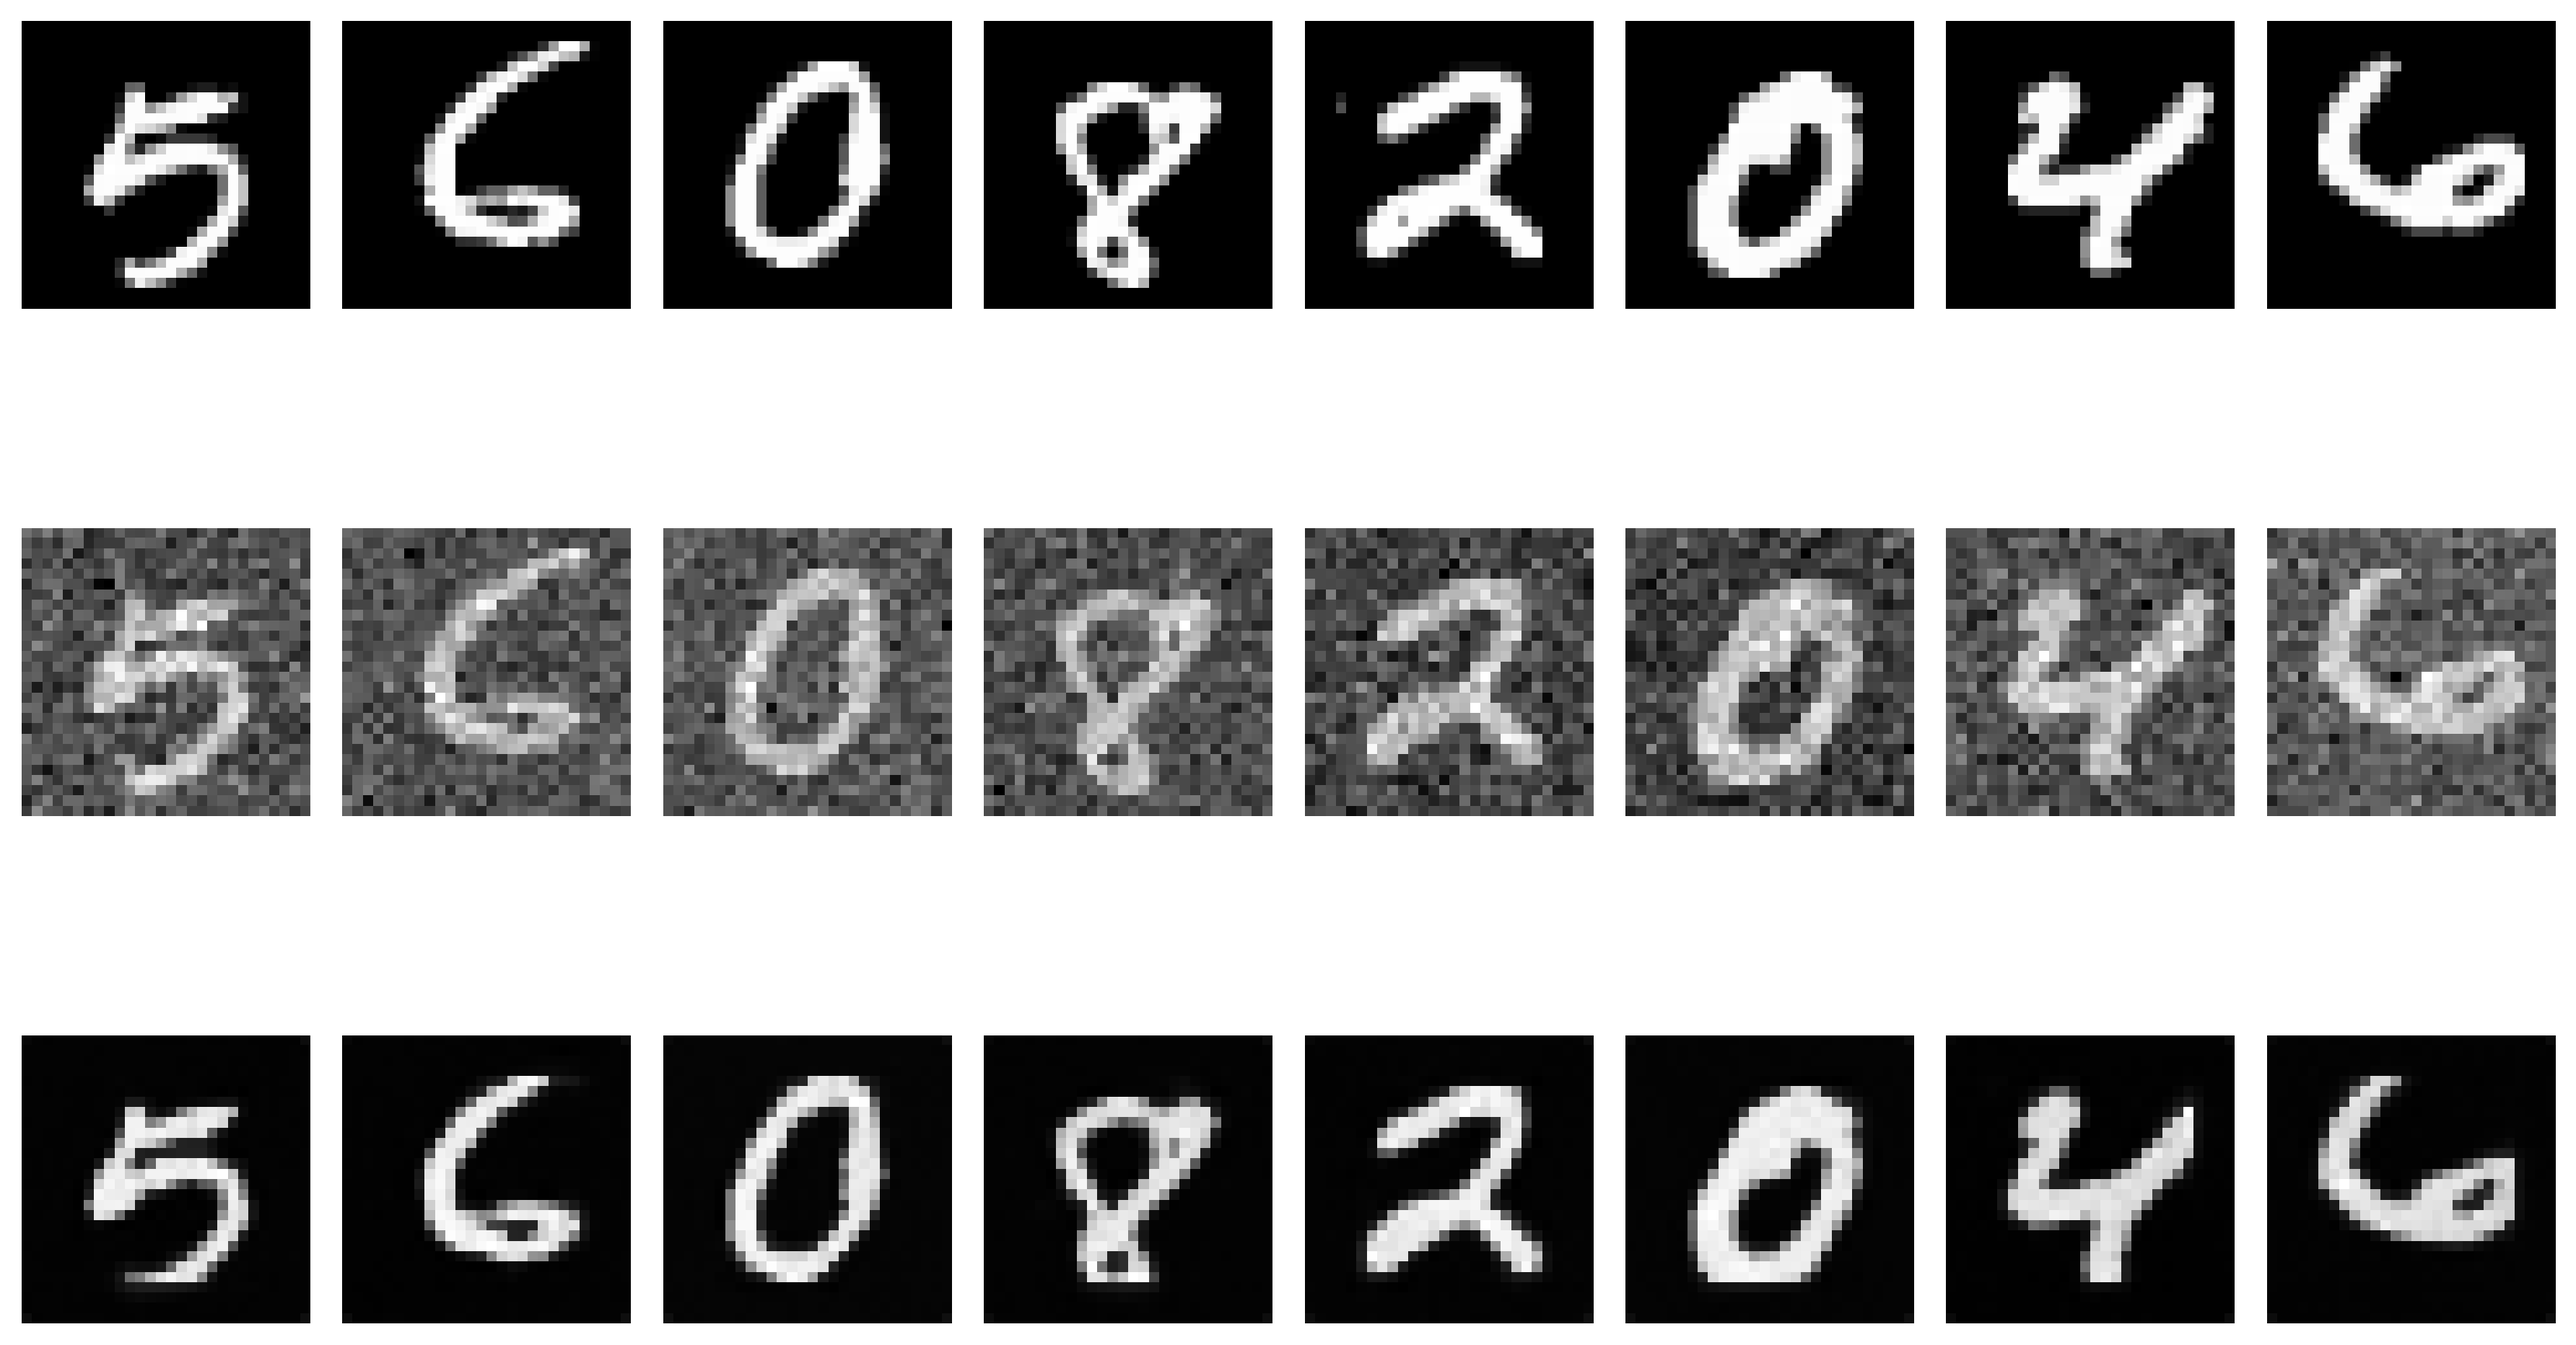
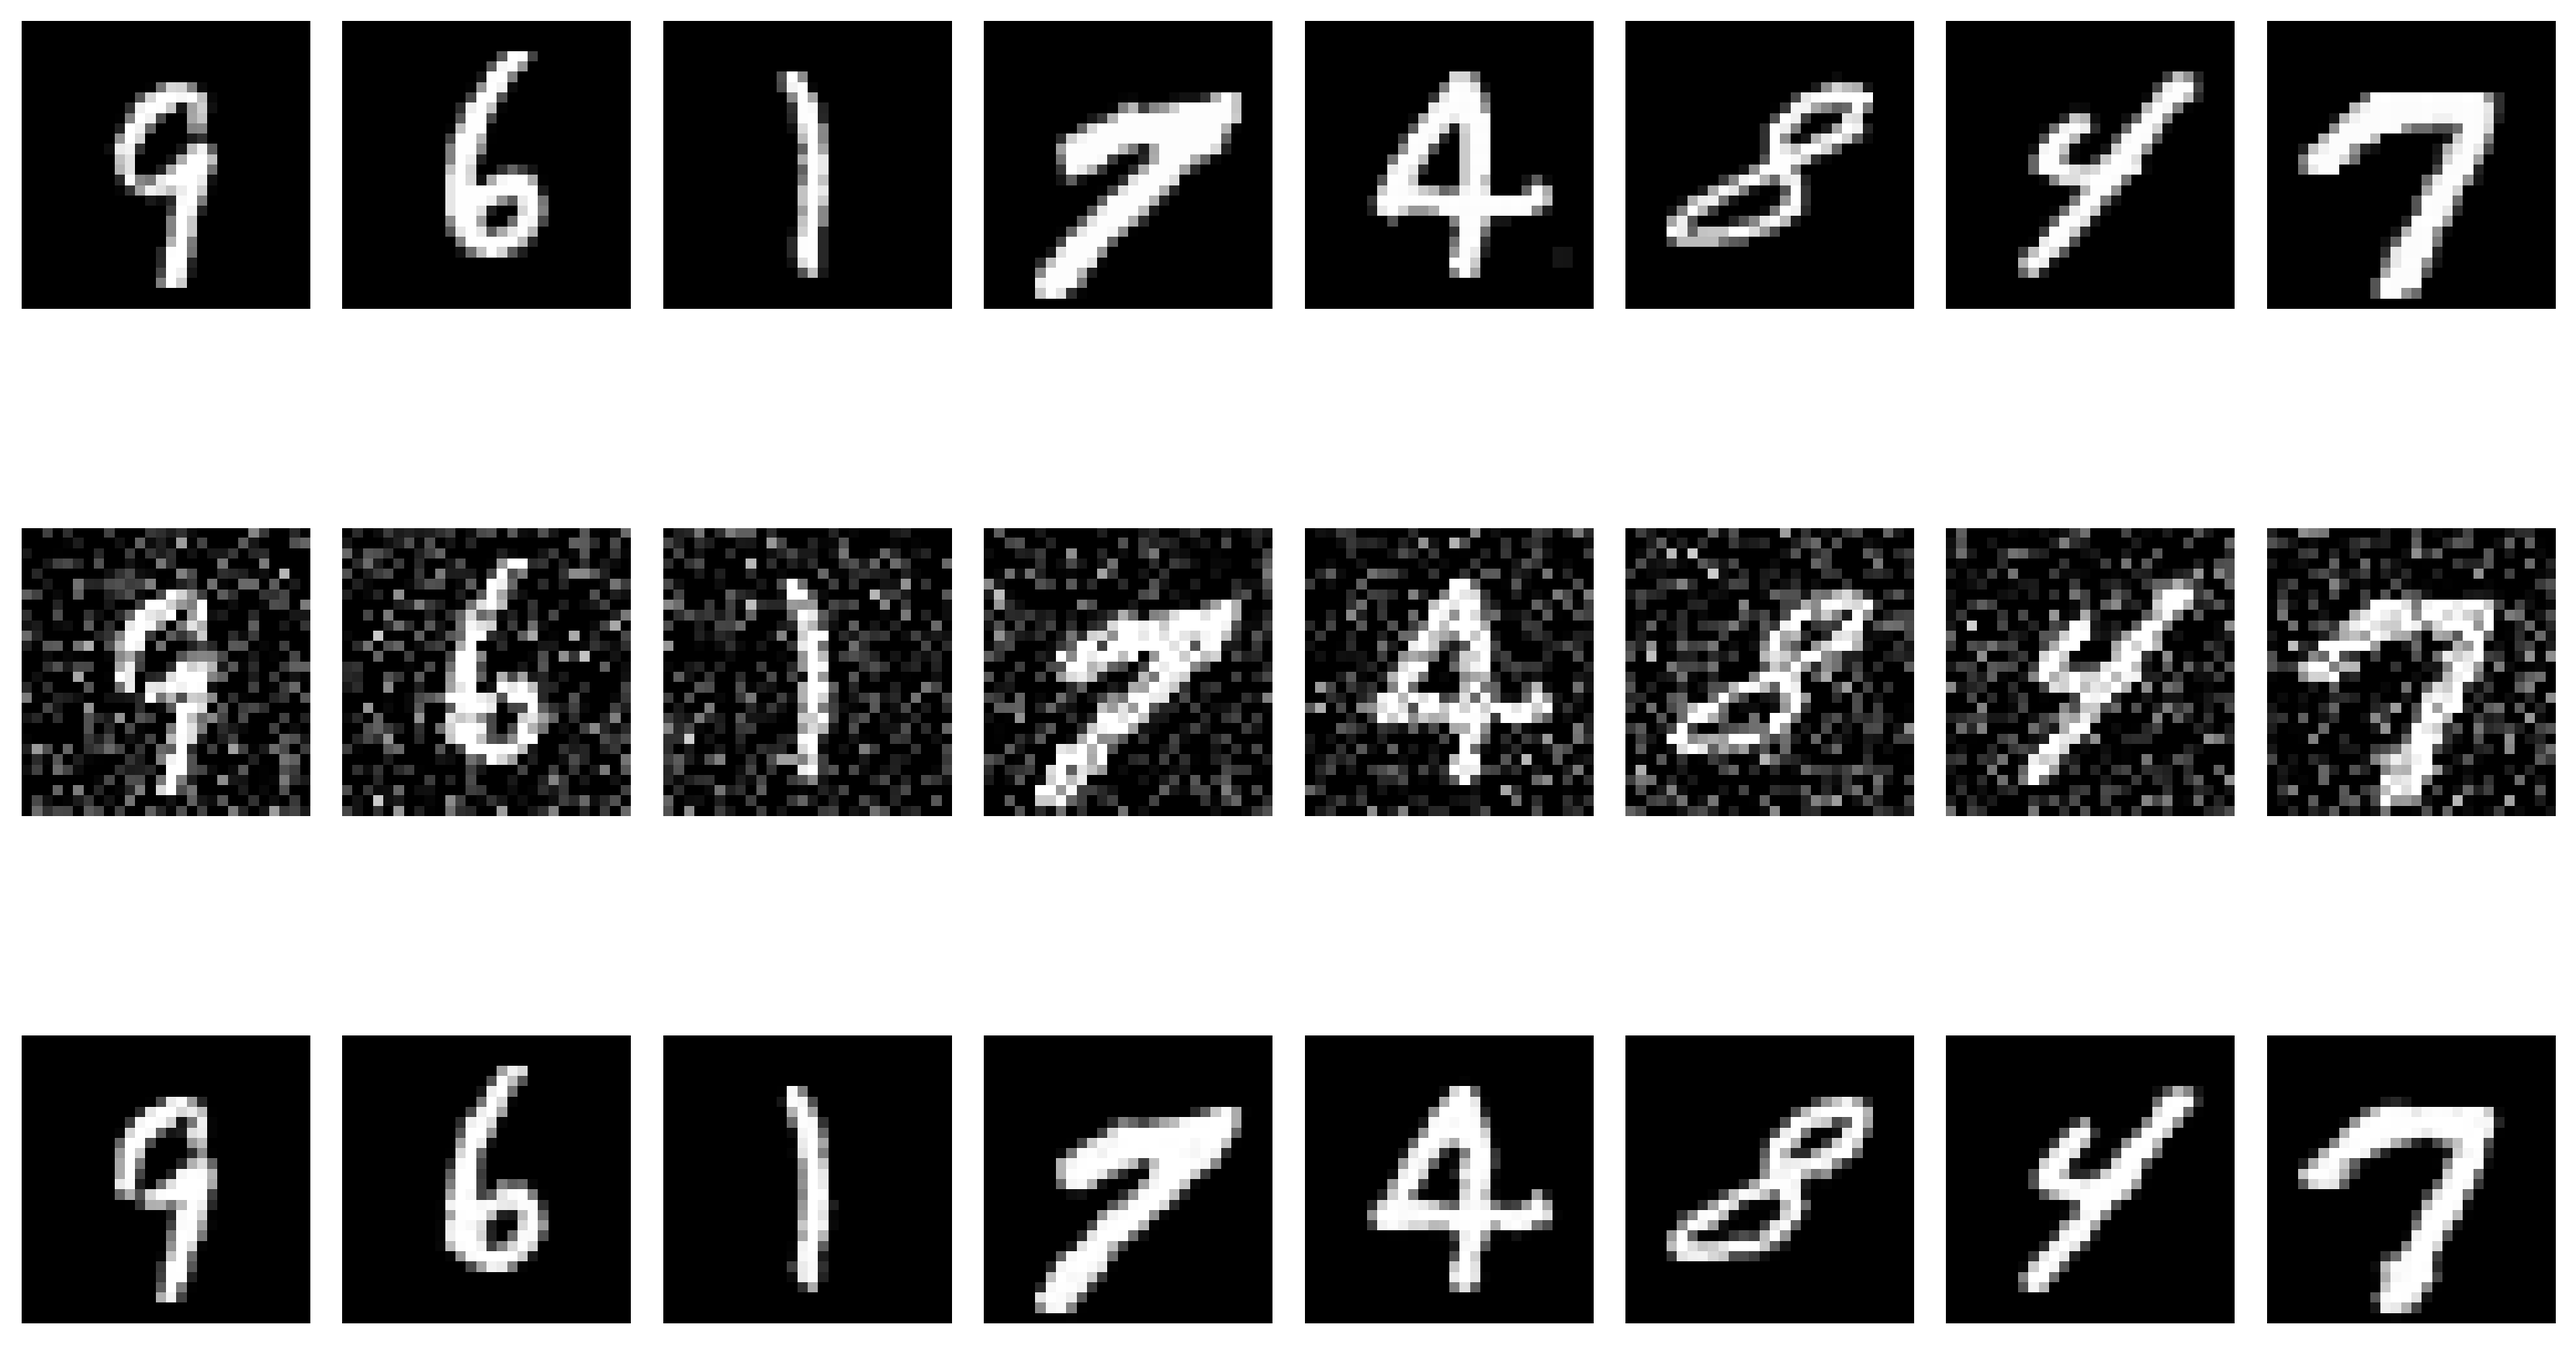
changed network architectures

diff --git a/cv/gans/denoising_gan/generator.py b/cv/gans/denoising_gan/generator.py
@@ -5,42 +5,29 @@ class Generator(nn.Module):
     def __init__(self):
         super(Generator, self).__init__()
         self.encoder1 = nn.Sequential(
-            nn.Conv2d(1, 32, kernel_size=5),
-            nn.LeakyReLU(),
+            nn.Conv2d(1, 32, 3, stride=2, padding=1),
+            nn.ReLU()
         )
 
         self.encoder2 = nn.Sequential(
-            nn.Conv2d(32, 64, kernel_size=5),
-            nn.LeakyReLU(),
-        )
-
-        self.encoder3 = nn.Sequential(
-            nn.Conv2d(64, 128, kernel_size=5),
-            nn.LeakyReLU(),
+            nn.Conv2d(32, 64, 3, stride=2, padding=1),
+            nn.ReLU()
         )
 
         self.decoder1 = nn.Sequential(
-            nn.ConvTranspose2d(128, 64, kernel_size=5),
-            nn.LeakyReLU(),
+            nn.ConvTranspose2d(64, 32, 3, stride=2, padding=1, output_padding=1), 
+            nn.ReLU()
         )
 
         self.decoder2 = nn.Sequential(
-            nn.ConvTranspose2d(128, 32, kernel_size=5),
-            nn.LeakyReLU(),
-        )
-
-        self.decoder3 = nn.Sequential(
-            nn.ConvTranspose2d(64, 1, kernel_size=5),
-            nn.LeakyReLU(),
+            nn.ConvTranspose2d(64, 1, 3, stride = 2, padding=1, output_padding=1),
+            nn.Tanh()
         )
 
     def forward(self, x):
         e1 = self.encoder1(x)
         e2 = self.encoder2(e1)
-        e3 = self.encoder3(e2)
-        d1 = self.decoder1(e3)
-        d1 = torch.concat([e2, d1], dim=1)
+        d1 = self.decoder1(e2)
+        d1 = torch.concat([d1, e1], dim=1)
         d2 = self.decoder2(d1)
-        d2 = torch.concat([e1, d2], dim=1)
-        d3 = self.decoder3(d2)
-        return d3
+        return d2

diff --git a/cv/gans/denoising_gan/train.py b/cv/gans/denoising_gan/train.py
@@ -10,23 +10,23 @@ from generator import Generator
 from discriminator import Discriminator
 
 # define parameters
-LR = 0.0001
+LR = 0.0002
 EPOCHS = 40
-BATCH_SIZE = 128
+BATCH_SIZE = 64
 DEVICE = torch.device("cuda" if torch.cuda.is_available() else "cpu")
 
 # add noise
 def add_gaussian_noise(image_tensor, noise_factor=0.5):
     noise_tensor = torch.randn_like(image_tensor) * noise_factor
     noisy_image = image_tensor + noise_tensor
-    return noisy_image
+    return torch.clamp(noisy_image, -1., 1.)
 
 # load data
 print("Loading data...")
 
 transform = transforms.Compose([
     transforms.ToTensor(),
-    transforms.Normalize((.1307), (.3801))
+    transforms.Normalize((.5), (.5))
 ])
 
 train_dataset = MNIST("../../../data", download=False, transform=transform, train=True)
@@ -52,12 +52,11 @@ print("Training started...")
 for epoch in range(EPOCHS):
     for batch_idx, (clean_images, _) in enumerate(train_loader):
         clean_images = clean_images.to(DEVICE)
-        
         ## train discriminator
         disc_opt.zero_grad()
 
         # prepare data
-        noisy_images = add_gaussian_noise(clean_images)
+        noisy_images = add_gaussian_noise(clean_images).to(DEVICE)
         denoised_images = gen(noisy_images)
 
         # create labels
@@ -72,7 +71,7 @@ for epoch in range(EPOCHS):
         disc_noisy_outputs = disc(denoised_images.detach())
         disc_noisy_loss = gan_loss(disc_noisy_outputs, noisy_labels)
 
-        disc_loss = (disc_clean_loss + disc_noisy_loss)/2.
+        disc_loss = disc_clean_loss + disc_noisy_loss
         disc_loss.backward()
         disc_opt.step()
 

diff --git a/cv/gans/denoising_gan/discriminator.py b/cv/gans/denoising_gan/discriminator.py
@@ -4,18 +4,13 @@ class Discriminator(nn.Module):
     def __init__(self):
         super(Discriminator, self).__init__()
         self.disc = nn.Sequential(
-            nn.Conv2d(1, 32, kernel_size=5),
-            nn.LeakyReLU(),
-            nn.MaxPool2d(2),
-            nn.Conv2d(32, 64, kernel_size=5),
-            nn.LeakyReLU(),
-            nn.MaxPool2d(2),
+            nn.Conv2d(1, 64, 3, stride=2, padding=1),
+            nn.LeakyReLU(0.2),
+            nn.Conv2d(64, 128, 3, stride=2, padding=1),
+            nn.LeakyReLU(0.2),
             nn.Flatten(),
-            nn.Linear(1024, 32),
-            nn.LeakyReLU(),
-            nn.Linear(32, 1),
-            nn.Sigmoid()
+            nn.Linear(128*7*7, 1)
         )
-
+    
     def forward(self, x):
         return self.disc(x)
